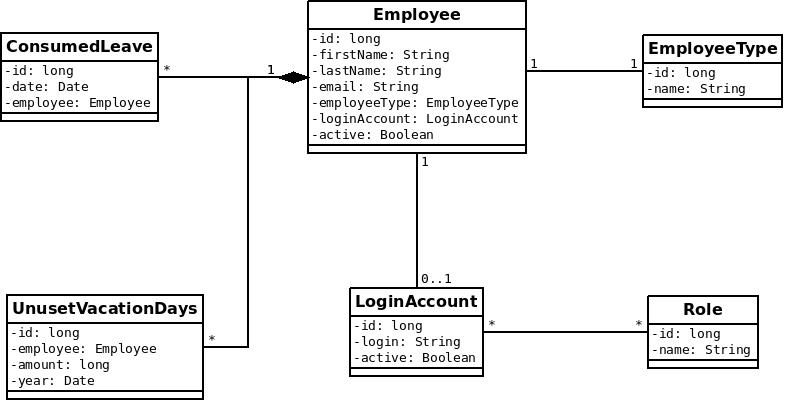
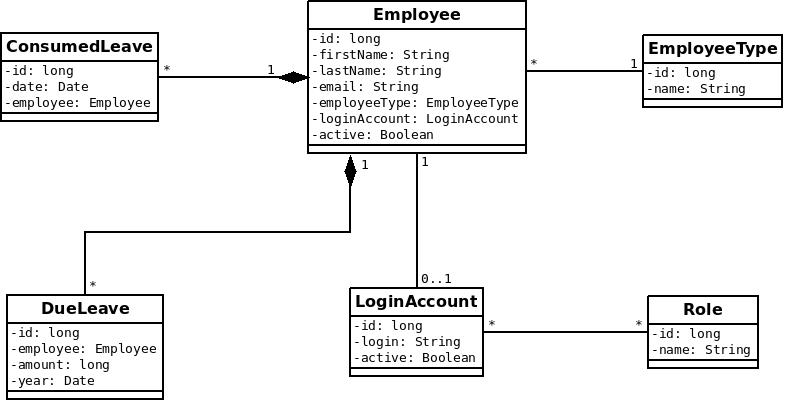
model and startup data modification

diff --git a/src/main/java/org/paduchk/application/StartupData.java b/src/main/java/org/paduchk/application/StartupData.java
@@ -5,6 +5,7 @@ import java.time.LocalDate;
 import javax.annotation.PostConstruct;
 
 import org.paduchk.domain.employee.Employee;
+import org.paduchk.domain.employee.EmployeeType;
 import org.paduchk.domain.leave.ConsumedLeave;
 import org.paduchk.domain.leave.DueLeave;
 import org.springframework.beans.factory.annotation.Autowired;
@@ -15,6 +16,9 @@ public class StartupData {
 	
 	@Autowired
 	EmployeeService employeeService;
+	
+	@Autowired
+	EmployeeTypeService employeeTypeService;
 	
 	@Autowired
 	DueLeaveService dueLeaveService;
@@ -28,6 +32,17 @@ public class StartupData {
 		Employee emp1 = new Employee(1L, "Jan", "Nowak", "jan@nowak.pl", true);
 		Employee emp2 = new Employee(2L, "John", "Rambo", "john@rambo.org" , true);
 		Employee emp3 = new Employee(3L, "Janina", "Nowak", "john@rambo.org" , false);
+		
+		EmployeeType employeeType1 = new EmployeeType(1L,"admin");
+		EmployeeType employeeType2 = new EmployeeType(2L,"user");
+		employeeTypeService.saveEmployeeType(employeeType1);
+		employeeTypeService.saveEmployeeType(employeeType2);
+		
+		
+		emp1.setEmployeeType(employeeType1);
+		emp2.setEmployeeType(employeeType2);
+		emp3.setEmployeeType(employeeType2);
+		
 		employeeService.saveEmployee(emp1);
 		employeeService.saveEmployee(emp2);
 		employeeService.saveEmployee(emp3);
@@ -45,6 +60,12 @@ public class StartupData {
 		consumedLeaveService.saveConsumedLeave(emp1ConsLeave1);
 		consumedLeaveService.saveConsumedLeave(emp1ConsLeave2);
 		consumedLeaveService.saveConsumedLeave(emp1ConsLeave3);
+		
+
+		
+		
+		
+		
 		
 		
 		

diff --git a/src/main/java/org/paduchk/domain/employee/Employee.java b/src/main/java/org/paduchk/domain/employee/Employee.java
@@ -5,9 +5,11 @@ import java.util.List;
 import javax.persistence.Entity;
 import javax.persistence.Id;
 import javax.persistence.JoinColumn;
+import javax.persistence.ManyToOne;
 import javax.persistence.OneToMany;
 import javax.persistence.OneToOne;
 
+import org.hibernate.annotations.ManyToAny;
 import org.paduchk.domain.leave.ConsumedLeave;
 import org.paduchk.domain.leave.DueLeave;
 
@@ -27,8 +29,7 @@ public class Employee {
 //	List<DueLeave> dueLeaves;
 //	@OneToMany(mappedBy="employee")
 //	List<ConsumedLeave> consumedLeaves;
-	@OneToOne
-	@JoinColumn(name="ID")
+	@ManyToOne
 	EmployeeType employeeType;
 //	@OneToOne
 //	@JoinColumn(name="ID")

diff --git a/src/main/java/org/paduchk/domain/employee/EmployeeType.java b/src/main/java/org/paduchk/domain/employee/EmployeeType.java
@@ -13,4 +13,17 @@ public class EmployeeType {
 	Long id;
 	String name;
 	
+	public EmployeeType(Long id, String name) {
+		super();
+		this.id = id;
+		this.name = name;
+	}
+	
+	public EmployeeType() {
+		super();
+		// TODO Auto-generated constructor stub
+	}
+	
+	
+	
 }
